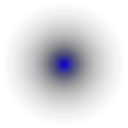
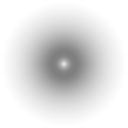
make energy globs be drawn in scanner view

Changed region(s): [[0.375, 0.375, 0.625, 0.625]]

diff --git a/app/src/main/java/net/opengress/slimgress/ScannerView.java b/app/src/main/java/net/opengress/slimgress/ScannerView.java
@@ -70,6 +70,7 @@ import com.google.common.geometry.S2LatLngRect;
 
 import net.opengress.slimgress.API.Common.Team;
 import net.opengress.slimgress.API.Game.GameState;
+import net.opengress.slimgress.API.Game.XMParticle;
 import net.opengress.slimgress.API.GameEntity.GameEntityBase;
 import net.opengress.slimgress.API.GameEntity.GameEntityControlField;
 import net.opengress.slimgress.API.GameEntity.GameEntityLink;
@@ -106,6 +107,7 @@ public class ScannerView extends Fragment {
 
     private final HashMap<String, Bitmap> mIcons = new HashMap<>();
     private HashMap<String, GroundOverlay> mMarkers = null;
+    private HashMap<String, GroundOverlay> mXMMarkers = null;
     private HashMap<String, Polyline> mLines = null;
     private HashMap<String, Polygon> mPolygons = null;
 
@@ -255,7 +257,8 @@ public class ScannerView extends Fragment {
 
         loadAssets();
 
-        mMarkers = new HashMap<String, GroundOverlay>();
+        mMarkers = new HashMap<>();
+        mXMMarkers = new HashMap<>();
         mLines = new HashMap<>();
         mPolygons = new HashMap<>();
 
@@ -423,6 +426,7 @@ public class ScannerView extends Fragment {
         for (String team : teams.keySet()) {
             mIcons.put(team, getTintedImage("portalTexture_NEUTRAL.png", 0xff000000 + Objects.requireNonNull(teams.get(team)).getColour(), portalSize));
         }
+        mIcons.put("particle", Bitmap.createScaledBitmap(getBitmapFromAsset("particle.png"), 10, 10, true));
 //        mXMParticleIcon = Bitmap.createScaledBitmap(getBitmapFromAsset("particle.png"), 10, 10, true);
     }
 
@@ -502,24 +506,36 @@ public class ScannerView extends Fragment {
 
     private void drawXMParticles() {
         // draw xm particles (as groundoverlays)
-        /*World world = mGame.getWorld();
-        Map<String, XMParticle> xmParticles = world.getXMParticles();
+        Map<String, XMParticle> xmParticles = mGame.getWorld().getXMParticles();
         Set<String> keys = xmParticles.keySet();
         for (String key : keys) {
             XMParticle particle = xmParticles.get(key);
 
-            final Utils.LocationE6 location = particle.getCellLocation();
+            assert particle != null;
+            final net.opengress.slimgress.API.Common.Location location = particle.getCellLocation();
 
             getActivity().runOnUiThread(new Runnable() {
                 @Override
                 public void run() {
-                    BitmapDescriptor icon = BitmapDescriptorFactory.fromBitmap(mXMParticleIcon);
-                    mMap.addMarker(new MarkerOptions()
-                    .position(location.getLatLng())
-                    .icon(icon));
+                    getActivity().runOnUiThread(() -> {
+                        Bitmap portalIcon;
+                        // TODO: make portal marker display portal health/deployment info (opacity x white, use shield image etc)
+                        // i would also like to draw the resonators around it, but i'm not sure that that would be practical with osmdroid
+                        // ... maybe i can at least write the portal level on the portal, like in iitc
+                        // it's quite possible that resonators can live in a separate Hash of markers,
+                        //   as long as the guids are stored with the portal info
+                        portalIcon = mIcons.get("particle");
+
+                        GroundOverlay marker = new GroundOverlay();
+                        marker.setPosition(location.getLatLng().destinationPoint(25, 315), location.getLatLng().destinationPoint(25, 135));
+                        marker.setImage(portalIcon);
+
+                        mMap.getOverlays().add(marker);
+                        mXMMarkers.put(particle.getGuid(), marker);
+                    });
                 }
             });
-        }*/
+        }
     }
 
     private void drawPortal(@NonNull final GameEntityPortal portal) {
